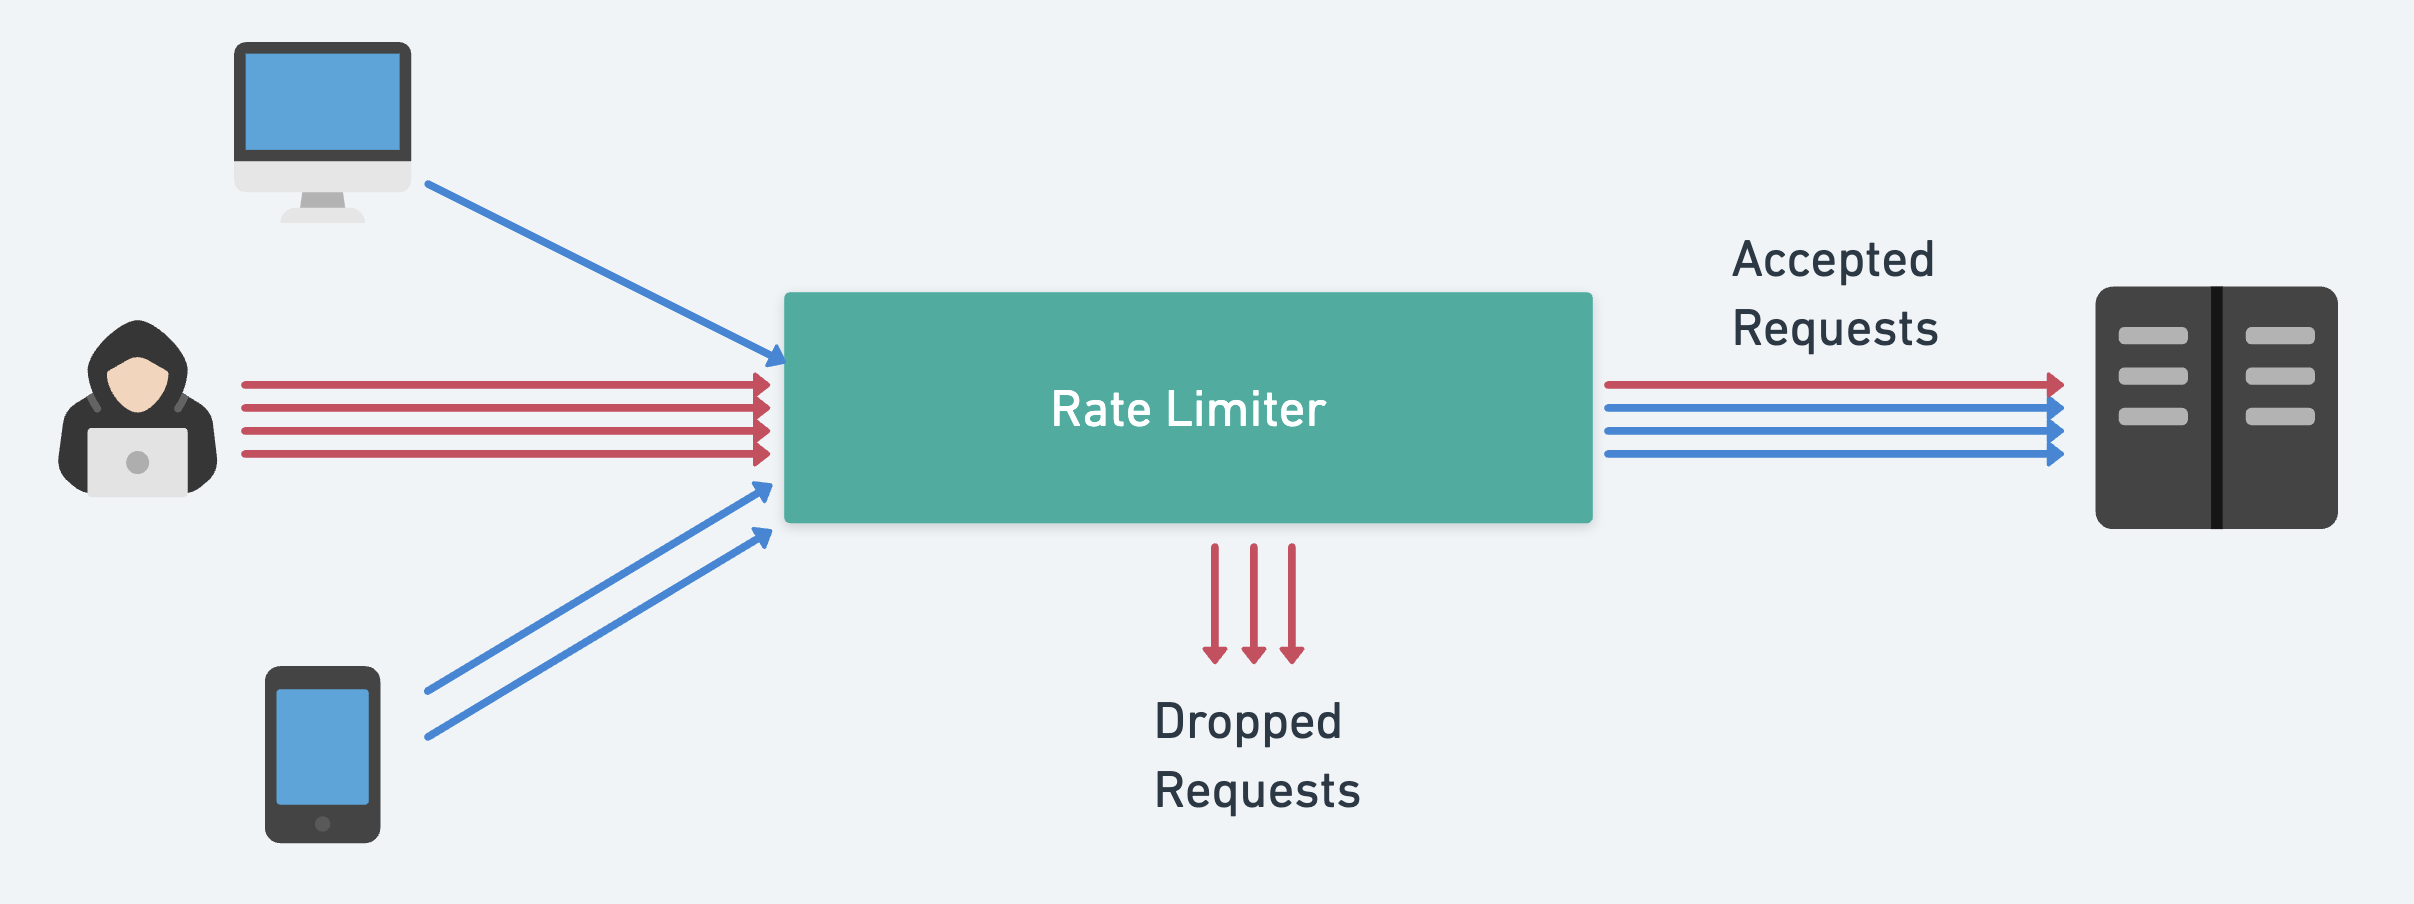
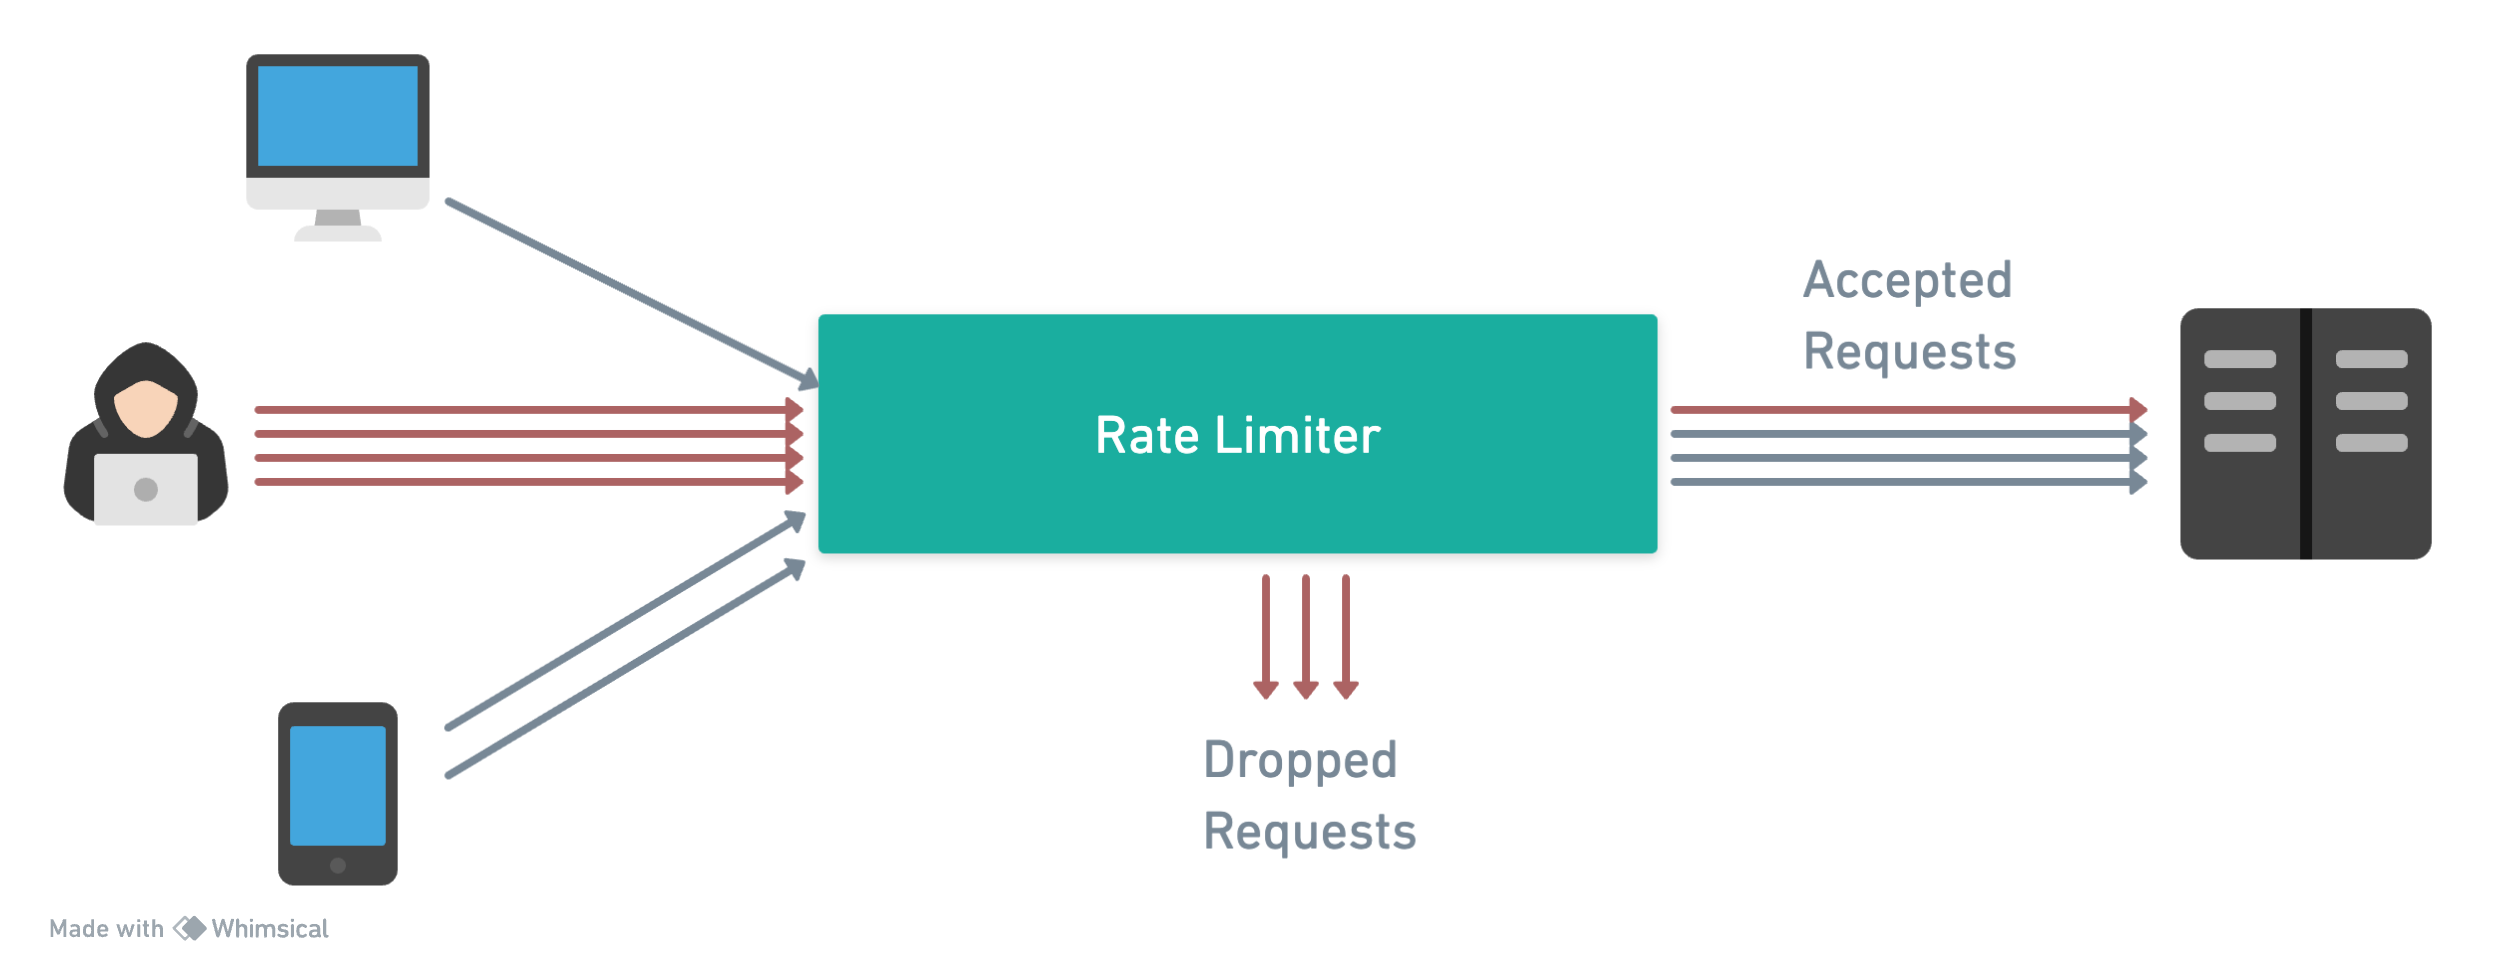
📚 blog: update rate limit post images
<skip-release>

diff --git a/docs/blog/2024/2024-02-24-rate-limiters/index.md b/docs/blog/2024/2024-02-24-rate-limiters/index.md
@@ -11,28 +11,31 @@ image: ./social-card.png
 
 In this blog post, we'll discuss rate limiters, a critical component in distributed systems to
 prevent abuse and ensure fair usage of resources. We'll cover the different types of rate
-limiters and their use cases, and we'll provide examples of how to use them with the minimalist-java
-http-api module.
+limiters and their implementations in the `minimalist-java` framework, and we'll provide examples of
+how to use them with the minimalist-java [http-api](../../../docs/modules/http-api) module.
 
 <!-- truncate -->
 
 ## Token Bucket
 
-- Parameters: `bucketSize`, `refillRate`.
+![Token Bucket](token-bucket.png)
+
+Parameters: `bucketSize`, `refillRate`.
+
 - Global bucket limits requests across all users.
 - Tokens are consumed per request; when out of tokens, requests are dropped until the next
   refill.
-- Example:
-    - bucketSize = 5, refillRate = 1 token/sec.
-      ```
-      T0 (01:00:00.000): Bucket starts full with 5 tokens.
-      T1 (01:00:01.100): 1 request arrives, consumes 1 token, 4 tokens left.
-      T2 (01:00:01.200): 4 more requests arrive, consume 4 tokens, bucket empty.
-      T3 (01:00:01.300): No tokens, requests dropped. Bucket refills 1 token per second.
-      T4 (01:00:02.000): Bucket is refilled with all 5 tokens.
-      T5 (01:00:02.100): 1 request arrives, consumes 1 token, 4 tokens left.
-      T6 (01:00:03.000): No more requests so far. Bucket is refilled back to 5 tokens (adds 4 missing ones).
-      ```
+
+Example: `bucketSize = 5`, `refillRate = 1 token/sec`.
+
+- `T0 (01:00:00.000)`: Bucket starts full with 4 tokens.
+- `T1 (01:00:01.100)`: 1 request arrives, consumes 1 token, 3 tokens left.
+- `T2 (01:00:01.200)`: 3 more requests arrive, consume 3 tokens, bucket empty.
+- `T3 (01:00:01.300)`: No tokens, requests dropped. Bucket refills 4 token per second.
+- `T4 (01:00:02.000)`: Bucket is refilled with all 5 tokens.
+- `T5 (01:00:02.100)`: 1 request arrives, consumes 1 token, 3 tokens left.
+- `T6 (01:00:03.000)`: No more requests so far. Bucket is refilled back to 4 tokens (adds 3
+  missing ones).
 
 ## Leaking Bucket
 
